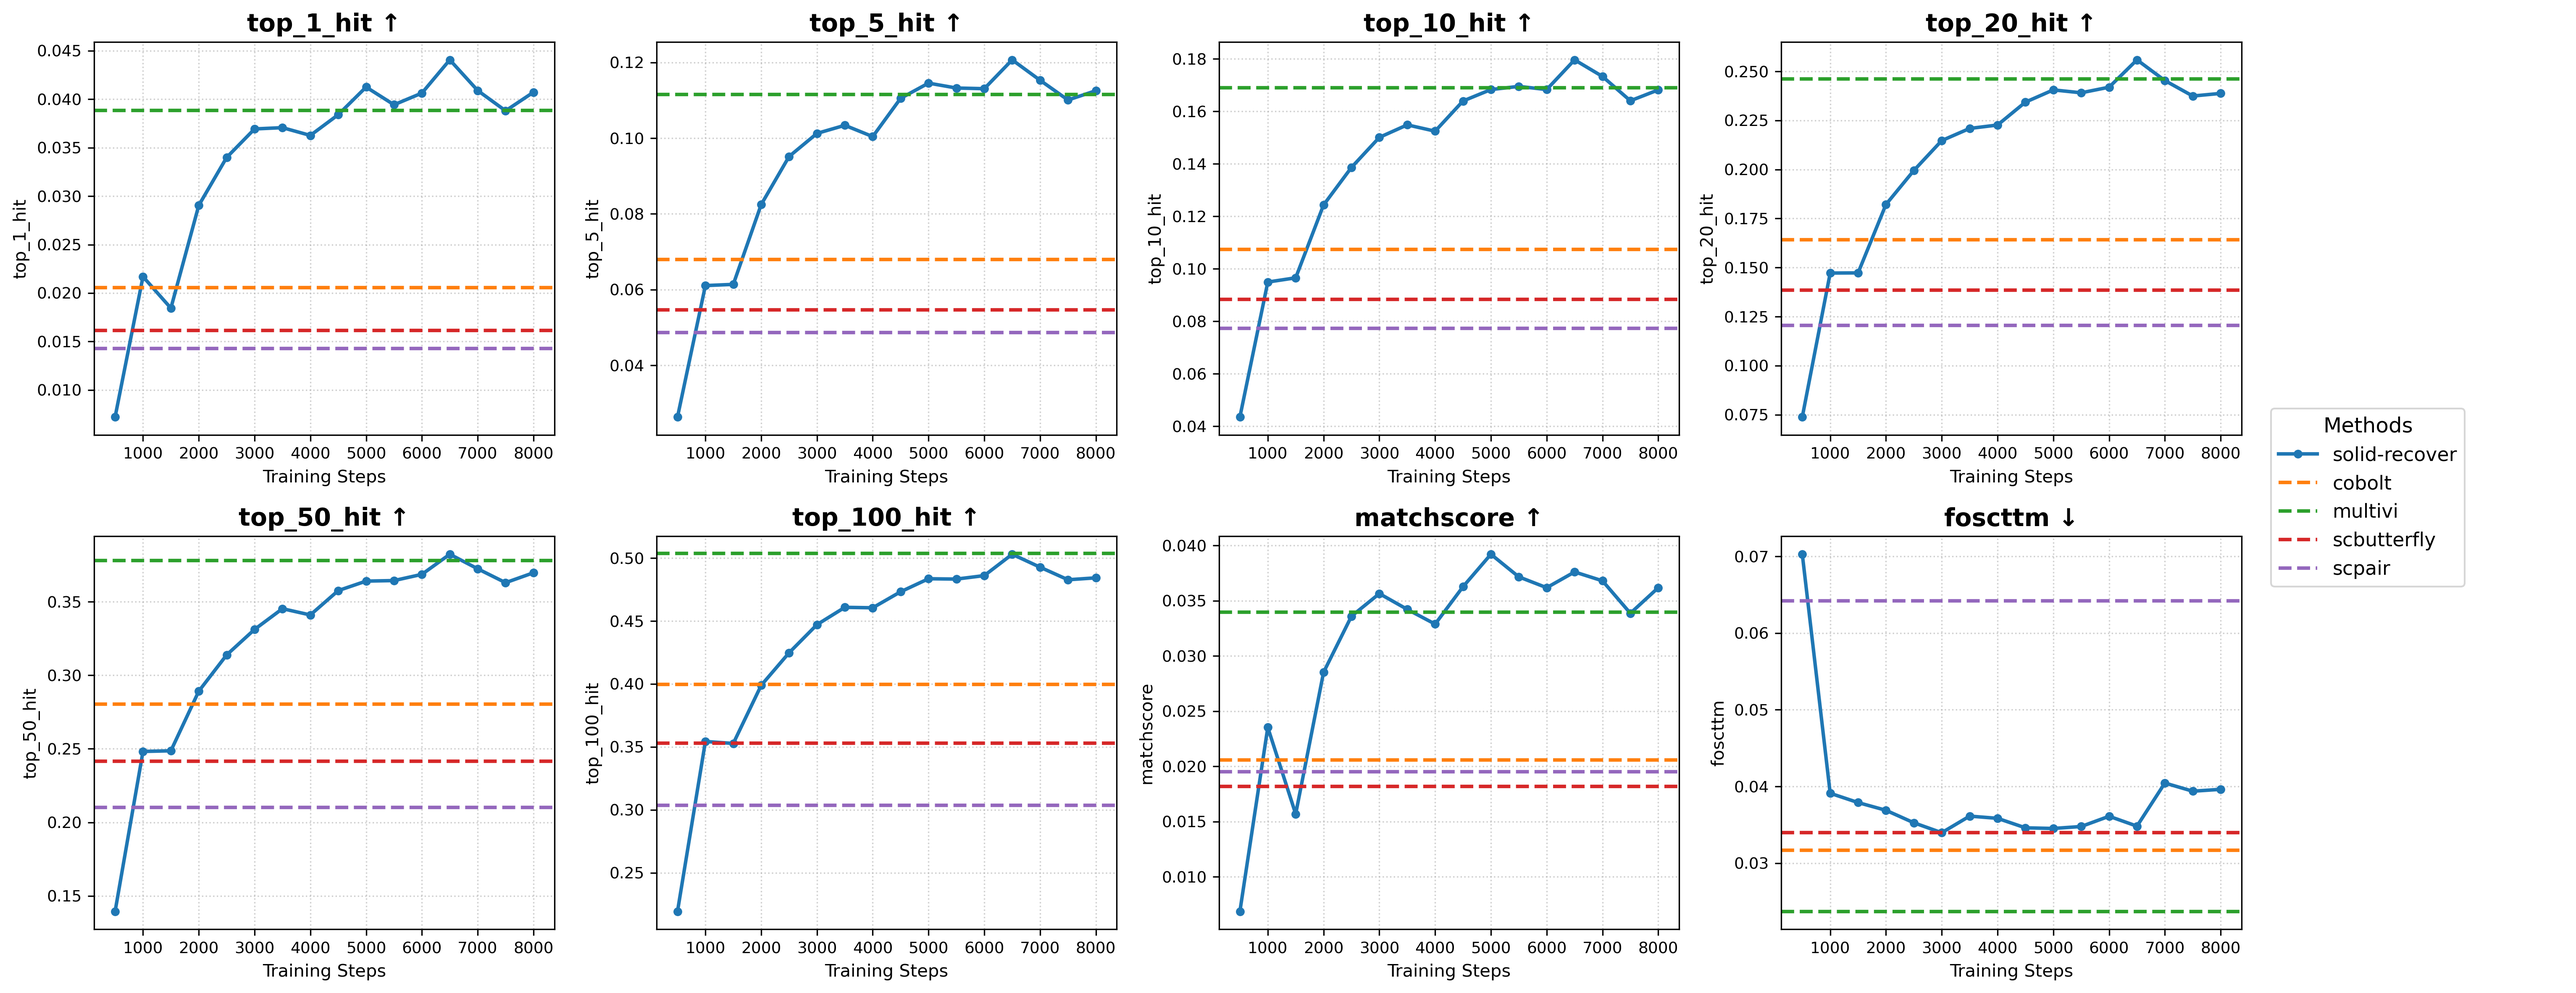
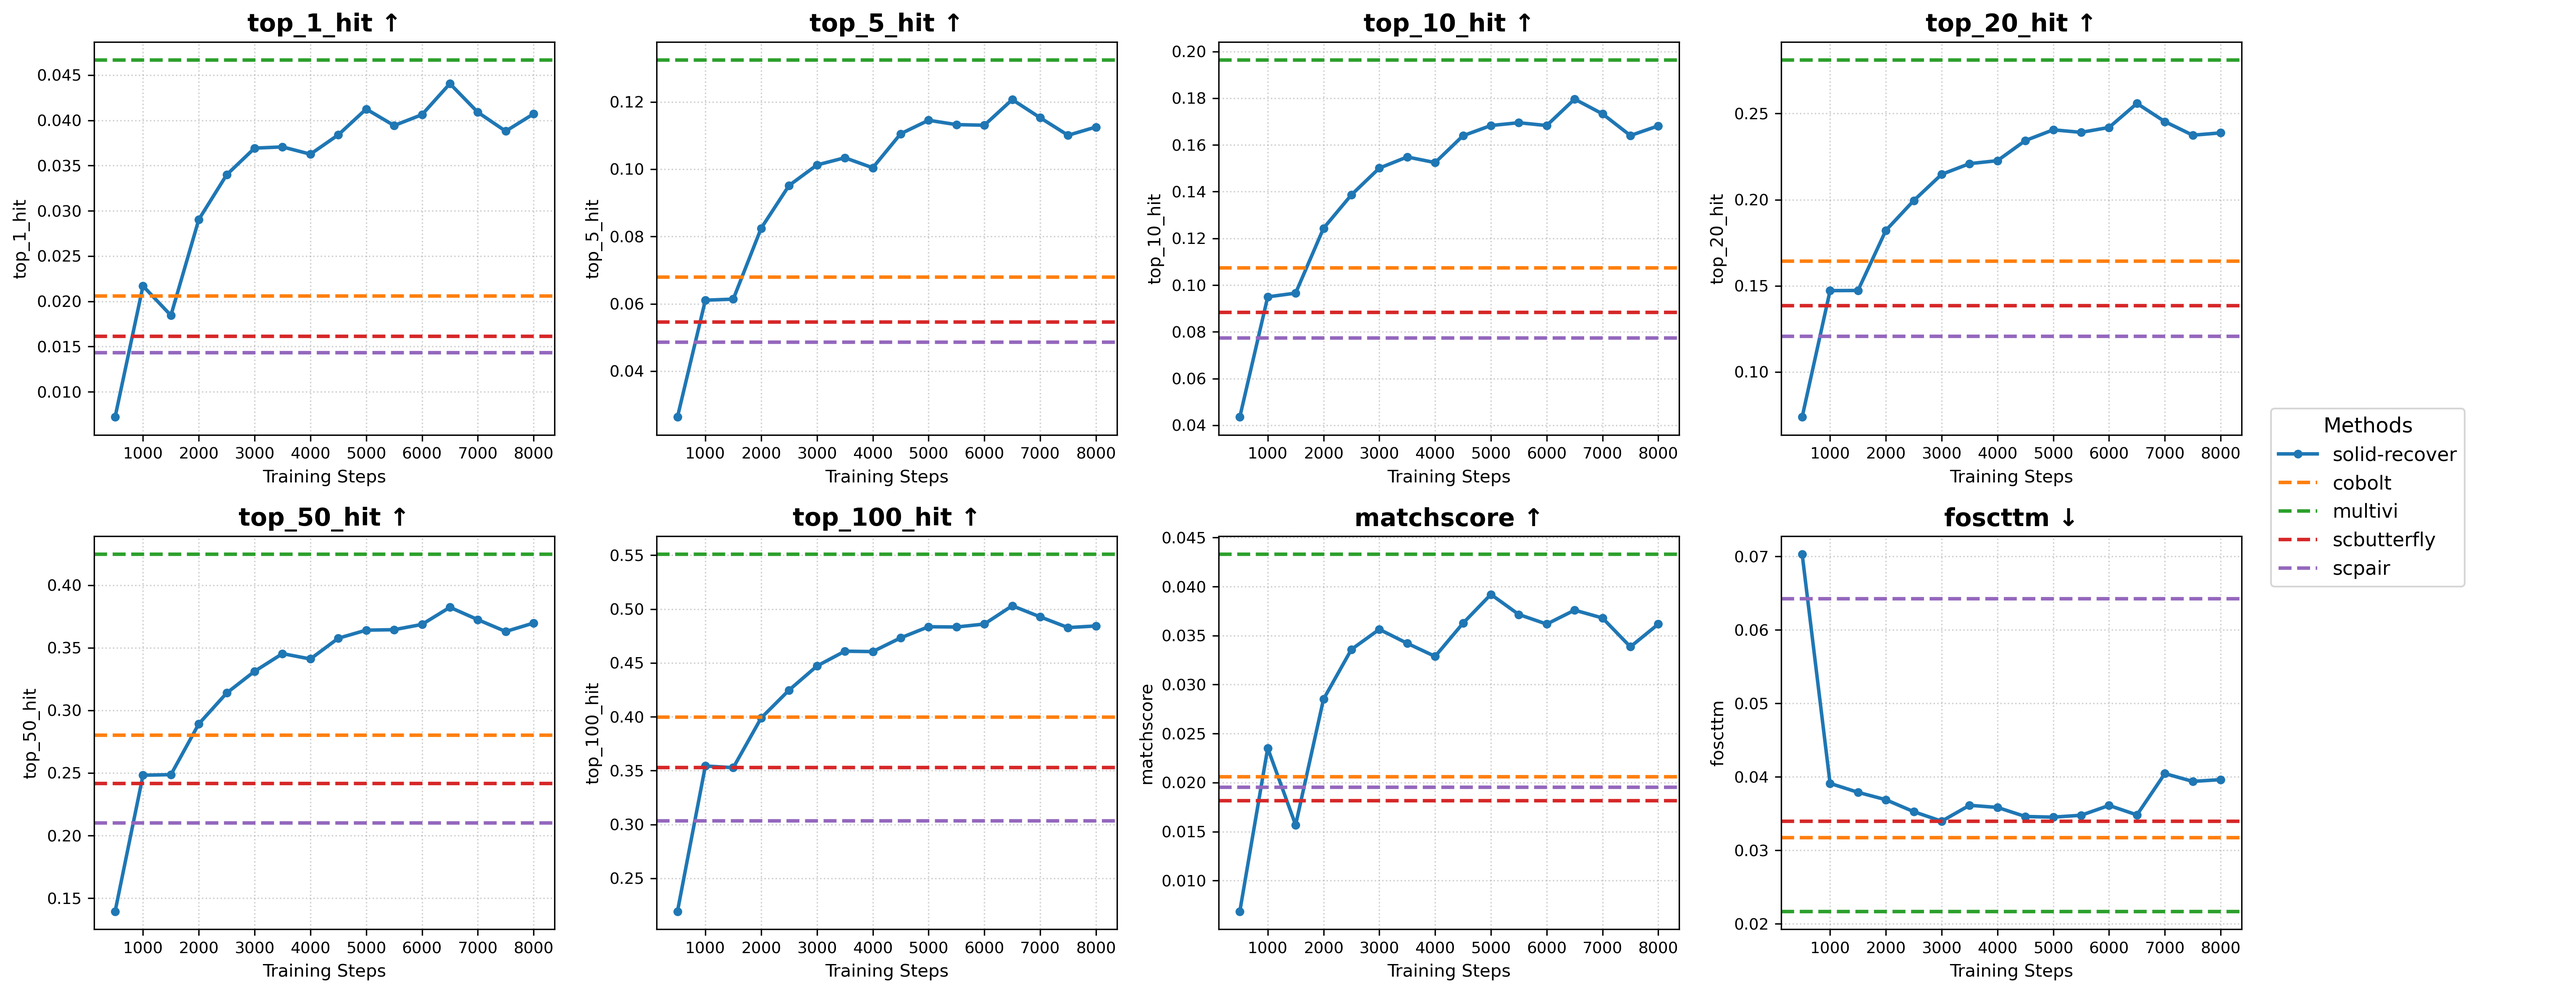
compare_new

diff --git a/result_analysis/match_compare_lineplot.py b/result_analysis/match_compare_lineplot.py
@@ -178,6 +178,7 @@ if __name__ == '__main__':
     # output_dir = '/home/rsun@ZHANGroup.local/solid-recover/outputs/pair_scratch_case4_20251012_1650/eval_result'
     # compare_dir = '/home/rsun@ZHANGroup.local/solid-recover/compare_method'
     # case_id = 'case_4'
+    # figure_id = 'case4'
 
     # output_dir = '/home/rsun@ZHANGroup.local/solid-recover/outputs/pair_scratch_case4_20251013_0338/eval_result'
     # compare_dir = '/home/rsun@ZHANGroup.local/solid-recover/compare_method'
@@ -193,6 +194,7 @@ if __name__ == '__main__':
     # compare_dir = '/home/rsun@ZHANGroup.local/solid-recover/compare_method'
     # case_id = 'case_4'
     # figure_id = 'case4_20251013_0754'
+
     # output_dir = '/home/rsun@ZHANGroup.local/solid-recover/outputs/pair_scratch_case4_20251013_1009/eval_result'
     # compare_dir = '/home/rsun@ZHANGroup.local/solid-recover/compare_method'
     # case_id = 'case_4'
@@ -213,18 +215,18 @@ if __name__ == '__main__':
     # case_id = 'case_4'
     # figure_id = 'case4_20251014_0134'
 
-    # output_dir = '/home/rsun@ZHANGroup.local/solid-recover/outputs/pair_scratch_case4_20251014_0205/eval_result'
-    # compare_dir = '/home/rsun@ZHANGroup.local/solid-recover/compare_method'
-    # case_id = 'case_4'
-    # figure_id = 'case4_20251014_0205'
+    output_dir = '/home/rsun@ZHANGroup.local/solid-recover/outputs/pair_scratch_case4_20251014_0205/eval_result'
+    compare_dir = '/home/rsun@ZHANGroup.local/solid-recover/compare_method'
+    case_id = 'case_4'
+    figure_id = 'case4_20251014_0205'
 
     # output_dir = '/home/rsun@ZHANGroup.local/solid-recover/outputs/pair_scratch_case3_20251013_0339/eval_result'
     # compare_dir = '/home/rsun@ZHANGroup.local/solid-recover/compare_method'
     # case_id = 'case_3'
     # figure_id = 'case3_trainable_t'
 
-    output_dir = '/home/rsun@ZHANGroup.local/solid-recover/outputs/pair_scratch_case2/eval_result'
-    compare_dir = '/home/rsun@ZHANGroup.local/solid-recover/compare_method'
-    case_id = 'case_2'
-    figure_id = 'case2'
+    # output_dir = '/home/rsun@ZHANGroup.local/solid-recover/outputs/pair_scratch_case2/eval_result'
+    # compare_dir = '/home/rsun@ZHANGroup.local/solid-recover/compare_method'
+    # case_id = 'case_2'
+    # figure_id = 'case2'
     line_plot_compare( output_dir , compare_dir, case_id,figure_id = figure_id)
